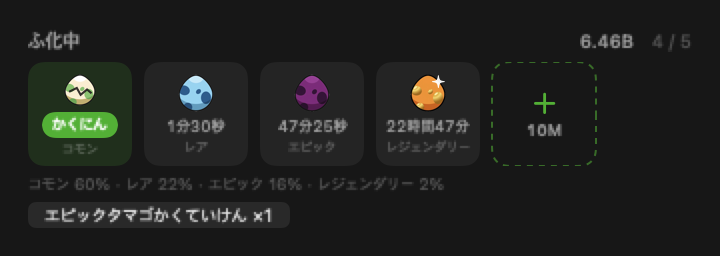
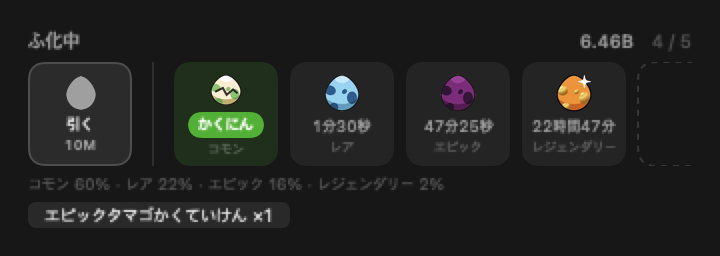
Fix the egg-draw regressions and rework the hatching row (#13)
* fix: pin the draw tile and stop the reveal leaking the result

Moving the egg draw into the hatching row introduced two regressions.

The reveal's backdrop is a radial gradient that only covers ~16% at the
centre. Over the shop that leaked nothing; over the hatching row it leaked
the freshly landed egg's grade colour and label, so the result was readable
before the animation finished. Paint an opaque base under the gradient.

The draw tile was the first empty slot, so it shifted one tile right after
every draw and rapid-fire drawing was gone. Pin it to the head of the row
and keep it visible-but-disabled when the row is full, so the same spot
stays clickable and there is still somewhere to say why a draw is blocked.

The row order moves out of the view body into EggSlotsView.tiles so the
position can be asserted, and the cover is tested by rendering the reveal
over two different backgrounds and requiring identical pixels.

* refactor: move the draw tile out of the scrolling egg strip

Pinning the draw tile to the head of the row kept it from shifting, but it
still lived inside the horizontal ScrollView. That cost a slot's worth of
width: the strip now overflows the 332pt content width at 5 slots instead
of 6, and scrolling right to see the last egg carries the button off screen
- so the position fix stopped working exactly when the row got long enough
to need scrolling.

Make the tile a sibling of the ScrollView instead. It cannot move and
[…]

diff --git a/Sources/PokeDexBar/UI/EggSlotsView.swift b/Sources/PokeDexBar/UI/EggSlotsView.swift
@@ -69,25 +69,37 @@ struct EggSlotsView: View {
                 Text("\(store.state.eggs.count) / \(store.state.slots)")
                     .font(.system(size: 9)).monospacedDigit().foregroundStyle(.tertiary)
             }
-            ScrollView(.horizontal, showsIndicators: false) {
-                HStack(spacing: Self.tileSpacing) {
-                    ForEach(store.state.eggs) { egg in
-                        slot(egg)
-                    }
-                    // **첫 빈 칸만 뽑기 버튼**이다. 빈 칸마다 값을 적으면 "10M" 이 네 번 서서
-                    // 한 번의 동작이 네 개처럼 보인다 — 나머지는 여유 자리로 남긴다.
-                    ForEach(0..<max(0, store.state.slots - store.state.eggs.count), id: \.self) { index in
-                        if index == 0, provider != nil { drawSlot } else { emptySlot }
+            // **뽑기 칸은 스크롤 바깥이다.** 줄 안에 두면 두 가지를 잃는다: 알이 찰 때마다
+            // 자리가 밀려 연타가 깨지고(사용자 지적), 칸 하나가 늘어난 만큼 줄이 더 일찍 넘쳐
+            // 오른쪽 알을 보려고 스크롤하면 **버튼이 화면 밖으로 나간다**(5슬롯부터 그렇다).
+            // 스크롤의 형제로 두면 둘 다 사라진다 — 자리가 고정되고 늘 보인다.
+            HStack(alignment: .top, spacing: 10) {
+                if provider != nil {
+                    drawSlot
+                    // 왼쪽은 **동작**이고 오른쪽은 **상태**다 — 같은 크기 타일이 붙어 서면 한 덩어리로
+                    // 읽히므로 경계를 한 줄 긋는다.
+                    Divider().frame(height: Self.tileSize)
+                }
+                ScrollView(.horizontal, showsIndicators: false) {
+                    HStack(spacing: Self.tileSpacing) {
+                        ForEach(Self.tiles(eggs: store.state.eggs, slots: store.state.slots)) { tile in
+                            switch tile {
+                            case .egg(let egg): slot(egg)
+                            case .empty: emptySlot
+                            }
+                        }
                     }
                 }
+                // 슬롯이 적으면(대부분의 사용자) 스크롤·바운스가 생기지 않아 기존과 동일하게 보인다.
+                .scrollBounceBehavior(.basedOnSize, axes: .horizontal)
             }
-            // 슬롯이 적으면(대부분의 사용자) 스크롤·바운스가 생기지 않아 기존과 동일하게 보인다.
-            .scrollBounceBehavior(.basedOnSize, axes: .horizontal)
             // **툴팁이 아니라 인라인 한 줄이다.** 팝오버 안에서는 `.help` 가 안 뜬다(실사용 확인) —
             // 이 앱의 다른 `.help` 들도 마찬가지라, 안 보이는 곳에 설명을 두면 없는 것과 같다.
             //
             // 확률은 값 바로 아래에 — 10M 이 무엇을 사는 값인지 말해 준다.
-            Text(Self.oddsText(store.language))
+            // 자리가 없으면 확률이 아니라 **왜 못 뽑는지**가 이 자리에 와야 한다 — 회색 버튼만
+            // 두면 물어볼 곳이 없다. 자리가 있으면 확률이 값(10M)이 무엇을 사는지 말해 준다.
+            Text(Self.footnote(freeSlots: store.freeSlots, language: store.language))
                 .font(.system(size: 8)).foregroundStyle(.tertiary)
             if let drawError {
                 Text(drawError).font(.system(size: 9)).foregroundStyle(.orange)
@@ -189,27 +201,87 @@ struct EggSlotsView: View {
 
     /// **빈 칸이 곧 뽑기 버튼이다.** 옆에 버튼을 따로 두면 빈 칸이 장식이 되고 누를 곳이
     /// 둘로 갈린다(키우미집 빈 자리에서 쓴 것과 같은 판단).
+    /// 스크롤되는 줄에 놓이는 칸들 — 알과 빈 칸뿐이다. **뽑기 칸은 여기 없다**: 줄 안에 두면
+    /// 알이 찰 때마다 자리가 밀려 연타가 깨지고, 줄이 한 칸 더 길어져 스크롤하면 버튼이 화면
+    /// 밖으로 나간다. 케이스를 아예 안 두는 이유는 그 회귀를 테스트가 아니라 **컴파일**이
+    /// 막게 하려는 것이다.
+    ///
+    /// 순서를 뷰 본문에 두면 "알이 늘어도 줄 길이가 그대로인가"를 물어볼 수가 없어서 밖으로 뺐다.
+    enum RowTile: Identifiable {
+        case egg(Egg)
+        case empty(Int)
+
+        var id: String {
+            switch self {
+            case .egg(let egg): "egg-\(egg.id)"
+            case .empty(let index): "empty-\(index)"
+            }
+        }
+    }
+
+    static func tiles(eggs: [Egg], slots: Int) -> [RowTile] {
+        eggs.map { RowTile.egg($0) } + (0..<max(0, slots - eggs.count)).map { RowTile.empty($0) }
+    }
+
+    /// 줄 아래 한 줄. 자리가 없으면 확률이 아니라 **왜 못 뽑는지**가 온다 — 회색 버튼만 두면
+    /// 물어볼 곳이 없다. 지갑 부족은 헤더에 지갑과 값이 나란히 서서 이미 읽히므로 문장을 안 만든다.
+    nonisolated static func footnote(freeSlots: Int, language: AppLanguage) -> String {
+        freeSlots == 0 ? L(language).eggSlotsFull : oddsText(language)
+    }
+
     private var drawSlot: some View {
         let canDraw = store.canDraw && !drawing && provider != nil
+        // **점선은 빈 칸 전용이다** — 버튼까지 점선이면 셋(버튼·빈칸·알)이 같은 무게로 읽힌다.
+        // 그리고 **악센트(초록)를 안 쓴다**: 이 줄에서 가장 중요한 신호는 "지금 열 수 있는 알"의
+        // 초록 배지인데, 바로 옆에 초록 버튼이 서면 시선이 갈린다. 버튼다움은 색이 아니라
+        // 채운 카드 + `plus` + 값이 맡는다.
         return Button { draw() } label: {
+            //
+            // 색을 뺀 만큼 **눌리는 상태와 막힌 상태는 밝기로** 갈린다 — 처음엔 둘을 같은 회색으로
+            // 뒀더니 지갑이 모자란 줄과 아닌 줄이 구별되지 않았다(스크린샷으로 발각).
             RoundedRectangle(cornerRadius: 8)
-                .stroke(Color.accentColor.opacity(canDraw ? 0.55 : 0.25),
-                        style: StrokeStyle(lineWidth: 1, dash: [3]))
+                .fill(Color.secondary.opacity(canDraw ? 0.16 : 0.06))
+                .strokeBorder(Color.secondary.opacity(canDraw ? 0.30 : 0.12), lineWidth: 1)
                 .frame(width: Self.tileSize, height: Self.tileSize)
                 .overlay {
-                    VStack(spacing: 2) {
-                        Image(systemName: drawing ? "hourglass" : "plus")
-                            .font(.system(size: 13, weight: .medium))
-                            .foregroundStyle(canDraw ? Color.accentColor : .secondary)
+                    // 옆 알 칸과 **같은 문법**이다 — 그림 / 한 줄 / 작은 한 줄. 나란히 서면
+                    // "이걸 누르면 저게 하나 생긴다"로 읽힌다.
+                    VStack(spacing: 1) {
+                        // 실루엣은 **글자보다 한 단 낮게**. 흰 알로 두면 줄에서 가장 밝은 것이 돼서
+                        // `Open` 배지(이 줄의 주인공)를 눌러버린다 — 회색 알이 "아직 모른다"는
+                        // 뜻에도 맞는다. 버튼의 정체는 글자가 맡는다.
+                        drawGlyph
+                            .foregroundStyle(canDraw ? AnyShapeStyle(.secondary)
+                                                     : AnyShapeStyle(.tertiary))
+                        // **`plus` 를 쓰면 안 된다** — 이 앱은 부화 슬롯을 실제로 돈 받고 팔아서,
+                        // 슬롯 줄에 선 `+` 는 "슬롯 추가"로 읽힌다(사용자 지적). 하는 일을 글자로 적는다.
+                        Text(l.shopDrawButton)
+                            .font(.system(size: 8, weight: .bold))
+                            .foregroundStyle(canDraw ? AnyShapeStyle(.primary)
+                                                     : AnyShapeStyle(.tertiary))
                         // 값은 **회색일 때도 보인다** — 얼마가 모자란지 알아야 기다릴 수 있다.
                         Text(TokenFormatter.compact(EggBalance.drawPrice))
-                            .font(.system(size: 8, weight: .semibold)).monospacedDigit()
-                            .foregroundStyle(.secondary)
+                            .font(.system(size: 7, weight: .semibold)).monospacedDigit()
+                            .foregroundStyle(canDraw ? AnyShapeStyle(.secondary)
+                                                     : AnyShapeStyle(.tertiary))
                     }
                 }
         }
         .buttonStyle(.plain)
         .disabled(!canDraw)
+    }
+
+    /// 뽑기 칸의 그림. **등급 없는 알**이어야 한다 — 커먼 알 그림을 그대로 쓰면 "커먼이
+    /// 나온다"로 읽히는데, 무엇이 나올지는 뽑아야 안다. 그래서 같은 그림을 실루엣(템플릿)으로
+    /// 쓴다. CALayer 필터(`.brightness` 류)로 어둡게 하는 방법은 스크린샷 생성기의 그리기
+    /// 경로에서 빠지므로 쓰지 않는다(도감 실루엣이 같은 이유로 템플릿 렌더링을 쓴다).
+    @ViewBuilder private var drawGlyph: some View {
+        if drawing {
+            Image(systemName: "hourglass").font(.system(size: 14, weight: .semibold))
+        } else if let art = EggIcon.image(for: .common) {
+            Image(nsImage: art).resizable().renderingMode(.template)
+                .interpolation(.high).scaledToFit().frame(width: 15, height: 18)
+        }
     }
 
     private var emptySlot: some View {

diff --git a/Tests/PokeDexBarTests/DrawRevealCoverTests.swift b/Tests/PokeDexBarTests/DrawRevealCoverTests.swift
@@ -1,0 +1,63 @@
+import XCTest
+import SwiftUI
+@testable import PokeDexBar
+
+/// 뽑기 연출이 **뒤를 가리는지**. 연출이 부화칸 줄 위에서 나기 시작하면서, 반투명 배경 틈으로
+/// 방금 놓인 알의 등급색이 비쳐 **연출이 끝나기 전에 결과를 알 수 있었다**(사용자 지적).
+/// 상점에 있을 땐 뒤가 상점 목록이라 흘릴 것이 없어 아무도 못 봤다.
+@MainActor
+final class DrawRevealCoverTests: XCTestCase {
+    private static let size = CGSize(width: PopoverMetrics.width, height: 220)
+
+    /// 연출 한 장을 그린다 — `behind` 는 뒤에 깔 색이다.
+    private func pixels(behind: Color) throws -> Data {
+        let view = ZStack {
+            behind
+            EggRevealView(grade: .legendary, shiny: true, l: L(.ko),
+                          language: .ko, onDone: {})
+        }
+        .frame(width: Self.size.width, height: Self.size.height)
+
+        let host = NSHostingView(rootView: view)
+        host.appearance = NSAppearance(named: .darkAqua)
+        host.frame = CGRect(origin: .zero, size: Self.size)
+        host.layoutSubtreeIfNeeded()
+        let rep = try XCTUnwrap(host.bitmapImageRepForCachingDisplay(in: host.bounds))
+        host.setNeedsDisplay(host.bounds)
+        host.displayIfNeeded()
+        host.cacheDisplay(in: host.bounds, to: rep)
+        let bytes = try XCTUnwrap(rep.bitmapData)
+        return Data(bytes: bytes, count: rep.bytesPerRow * rep.pixelsHigh)
+    }
+
+    /// **뒤에 무엇을 깔든 결과가 같아야 한다** — 한 픽셀이라도 뒷색을 따라가면 그만큼 비친다.
+    /// 색을 하나 정해 "그 색이 없다"로 물으면 연출 자체의 색과 구별이 안 되므로, 두 장을 비교한다.
+    func testTheRevealHidesWhateverIsBehindIt() throws {
+        let overMagenta = try pixels(behind: Color(red: 1, green: 0, blue: 1))
+        let overBlack = try pixels(behind: .black)
+        XCTAssertFalse(overMagenta.isEmpty, "아무것도 안 그려졌다 — 비교가 무의미하다")
+        XCTAssertEqual(overMagenta, overBlack, "연출 뒤가 비친다 — 알 목록이 읽힌다")
+    }
+
+    /// 대조군: 같은 방법으로 **가리지 않는** 표면은 뒷색을 따라가야 한다. 없으면 "렌더가 늘
+    /// 같은 그림을 준다"(예: 캐시가 굳거나 아무것도 안 그려짐)여도 위가 통과한다.
+    func testTheComparisonCanActuallySeeThrough() throws {
+        func translucent(_ behind: Color) throws -> Data {
+            let view = ZStack { behind; Color.black.opacity(0.93) }
+                .frame(width: Self.size.width, height: Self.size.height)
+            let host = NSHostingView(rootView: view)
+            host.appearance = NSAppearance(named: .darkAqua)
+            host.frame = CGRect(origin: .zero, size: Self.size)
+            host.layoutSubtreeIfNeeded()
+            let rep = try XCTUnwrap(host.bitmapImageRepForCachingDisplay(in: host.bounds))
+            host.setNeedsDisplay(host.bounds)
+            host.displayIfNeeded()
+            host.cacheDisplay(in: host.bounds, to: rep)
+            let bytes = try XCTUnwrap(rep.bitmapData)
+            return Data(bytes: bytes, count: rep.bytesPerRow * rep.pixelsHigh)
+        }
+        XCTAssertNotEqual(try translucent(Color(red: 1, green: 0, blue: 1)),
+                          try translucent(.black),
+                          "7% 반투명도 못 가려내면 이 비교는 아무것도 못 잡는다")
+    }
+}

diff --git a/Tests/PokeDexBarTests/ShopViewTests.swift b/Tests/PokeDexBarTests/ShopViewTests.swift
@@ -100,6 +100,46 @@ final class DrawLocationTests: XCTestCase {
         XCTAssertFalse(try code("EggSlotsView.swift").contains("buySlot("))
     }
 
+    /// **스크롤되는 줄에는 알과 빈 칸만 있다.** 뽑기 칸을 줄 안에 두면 알이 찰 때마다 자리가
+    /// 밀려 연타가 깨지고(사용자 지적), 줄이 한 칸 더 길어져 스크롤하면 버튼이 화면 밖으로
+    /// 나간다. `RowTile` 에 뽑기 케이스가 아예 없어서 이 회귀는 컴파일이 막지만, 줄 길이가
+    /// 슬롯 수를 따라가는 것은 여기서 잠근다.
+    func testTheStripIsExactlyTheSlotsNoMatterHowManyEggs() {
+        let url = FileManager.default.temporaryDirectory
+            .appendingPathComponent("row-\(UUID().uuidString).json")
+        let now = Date(timeIntervalSince1970: 1_700_000_000)
+        let store = PlayerStore(fileURL: url, rng: SeededRNG(seed: 3), now: { now })
+        for filled in 0...4 {
+            store.seedForTesting(wallet: EggBalance.drawPrice, slots: 4, eggs: filled, at: now)
+            let tiles = EggSlotsView.tiles(eggs: store.state.eggs, slots: 4)
+            XCTAssertEqual(tiles.count, 4, "알 \(filled)개일 때 줄 길이가 슬롯 수와 다르다")
+            XCTAssertEqual(tiles.prefix(filled).map(\.id),
+                           store.state.eggs.map { "egg-\($0.id)" },
+                           "알이 앞에서부터 순서대로 놓이지 않는다")
+        }
+    }
+
+    /// **버튼이 스크롤 밖에 있어야 하는 이유.** 최대 슬롯이면 줄 자체가 이미 내용 폭을 넘는다 —
+    /// 버튼을 줄에 넣으면 오른쪽 알을 보려고 스크롤한 순간 버튼이 딸려 나간다. 이 부등식이
+    /// 뒤집히면(타일이 작아지는 등) 바깥에 둘 이유가 사라지므로 그때 다시 판단하라는 표식이다.
+    func testTheStripOverflowsAtTheLargestSlotCount() {
+        XCTAssertGreaterThan(EggSlotsView.rowWidth(forSlotCount: EggBalance.maxSlots),
+                             PopoverMetrics.contentWidth,
+                             "줄이 안 넘치면 스크롤이 없다 — 버튼 위치의 근거가 바뀐다")
+    }
+
+    /// 자리가 없으면 줄 아래가 확률이 아니라 **막힌 이유**를 말한다. 대조군(자리 있음)이 없으면
+    /// "늘 이유만 낸다"도 통과한다.
+    func testTheFootnoteSaysWhyWhenTheRowIsFull() {
+        for language in [AppLanguage.ko, .en, .ja] {
+            let blocked = EggSlotsView.footnote(freeSlots: 0, language: language)
+            XCTAssertEqual(blocked, L(language).eggSlotsFull, "\(language) 에서 이유가 안 나온다")
+            XCTAssertEqual(EggSlotsView.footnote(freeSlots: 1, language: language),
+                           EggSlotsView.oddsText(language), "자리가 있는데 확률이 사라졌다")
+            XCTAssertNotEqual(blocked, EggSlotsView.oddsText(language))
+        }
+    }
+
     /// 뽑을 수 있는지는 **스토어 하나**가 정한다 — 화면이 조건을 따로 적으면 갈린다.
     func testTheTileFollowsTheStoreGate() {
         let url = FileManager.default.temporaryDirectory

diff --git a/Sources/PokeDexBar/UI/EggRevealView.swift b/Sources/PokeDexBar/UI/EggRevealView.swift
@@ -87,6 +87,11 @@ struct EggRevealView: View {
 
     var body: some View {
         ZStack {
+            // **뒤가 비치면 안 된다.** 아래 그라데이션은 가운데가 16% 밖에 안 가리는데, 이 연출이
+            // 부화칸 줄 위에 뜨면서 그 틈으로 **방금 놓인 알의 등급색과 라벨이 그대로 보였다**
+            // (사용자 지적) — 연출이 끝나기 전에 결과를 알게 된다. 상점에 있을 땐 뒤가 상점
+            // 목록이라 흘릴 것이 없었다. 불투명한 바닥을 깔아 무대의 느낌은 그대로 두고 새는 것만 막는다.
+            Color.black.ignoresSafeArea()
             // 가운데로 시선을 모으는 어둠 — 평평한 검정보다 무대처럼 읽힌다.
             RadialGradient(colors: [stage.color.opacity(0.16), .black.opacity(0.93)],
                            center: .center, startRadius: 0, endRadius: 190)

diff --git a/Sources/PokeDexBar/Core/Localization.swift b/Sources/PokeDexBar/Core/Localization.swift
@@ -465,6 +465,10 @@ struct L {
 
     // MARK: 홈 — 부화 슬롯
     var eggSlotsHeader: String { t("부화 중", "Hatching", "ふ化中") }
+    /// 자리가 없어 못 뽑을 때 **확률 줄 대신** 서는 문장. 회색 버튼만 두면 왜 안 눌리는지
+    /// 말해 주는 곳이 없다 — 지갑 부족은 헤더에 지갑과 값이 나란히 서서 이미 읽힌다.
+    var eggSlotsFull: String { t("부화 칸이 꽉 찼어요", "Every hatching slot is full",
+                                 "ふ化スロットがいっぱいです") }
     /// 배지에 마우스를 올렸을 때 — 누구 덕인지 짚어 준다.
     func eggWarmedBy(_ name: String) -> String {
         t("\(name)의 도움으로 부화가 빨라졌어요",
